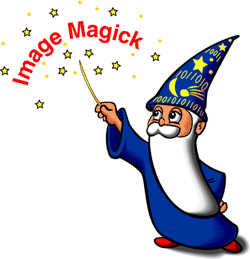
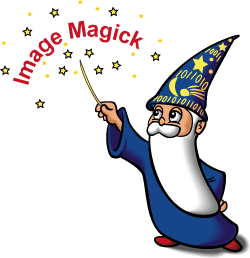
*** empty log message ***

diff --git a/ImageMagick.html b/ImageMagick.html
@@ -24,7 +24,7 @@ content="ImageMagick, Image Magick, Image Magic,
   vlink="#9900DD">
 
 <p align="center"> <img src="images/magick.png" alt="Image Magick"
-  width="250" height="259"> </p>
+  width="250" height="258"> </p>
 
 
 <table border="0" width="100%">
@@ -127,7 +127,10 @@ content="ImageMagick, Image Magick, Image Magic,
         announcements of bug fixes, enhancements, and new
         releases. </p>
         <p>Although the software is copyrighted, it is available for free
-        and can be redistributed without fee.
+        and can be redistributed without fee.  The ImageMagick logo is
+	copyright <a href="http://www.greetme.com">Pineapple USA Inc</a>.
+	It is freely distributable but modifications to the logo are not
+	permitted.
         &nbsp;</p>
     </dd>
 </dl>

diff --git a/magick/label.c b/magick/label.c
@@ -537,6 +537,8 @@ Export Image *ReadLABELImage(const ImageInfo *image_info)
       image->matte=True;
       image->columns=canvas.width;
       image->rows=canvas.rows;
+      crop_info.width=0;
+      crop_info.height=image->rows;
       p=(unsigned char *) canvas.bitmap;
       for (y=0; y < (int) image->rows; y++)
       {
@@ -552,7 +554,12 @@ Export Image *ReadLABELImage(const ImageInfo *image_info)
             q->opacity=(int) (Opaque*Min(*p,4))/4;
           else
             q->opacity=(*p) > 1 ? Opaque : Transparent;
-          if (q->opacity == Transparent)
+          if (q->opacity != Transparent)
+            {
+              if (x > (int) crop_info.width)
+                crop_info.width=x;
+            }
+          else
             {
               q->red=(~q->red);
               q->green=(~q->green);
@@ -566,6 +573,8 @@ Export Image *ReadLABELImage(const ImageInfo *image_info)
         if ((image->columns % 2) != 0)
           p++;
       }
+      (void) sprintf(geometry,"%ux%u+0+0",crop_info.width+1,crop_info.height);
+      TransformImage(&image,geometry,(char *) NULL);
       /*
         Free TrueType resources.
       */
@@ -821,8 +830,7 @@ Export Image *ReadLABELImage(const ImageInfo *image_info)
       p++;
     }
   }
-  crop_info.width++;
-  (void) sprintf(geometry,"%ux%u%+d%+d",crop_info.width,crop_info.height,
+  (void) sprintf(geometry,"%ux%u%+d%+d",crop_info.width+1,crop_info.height,
     crop_info.x,crop_info.y);
   TransformImage(&image,geometry,(char *) NULL);
   image->matte=True;

diff --git a/magick/bmp.c b/magick/bmp.c
@@ -1110,7 +1110,7 @@ Export unsigned int WriteBMPImage(const ImageInfo *image_info,Image *image)
         break;
       }
     }
-    if (bmp_header.bit_count == 8)
+    if (bmp_header.bit_count <= 8)
       if (image_info->compression != NoCompression)
         {
           unsigned int
